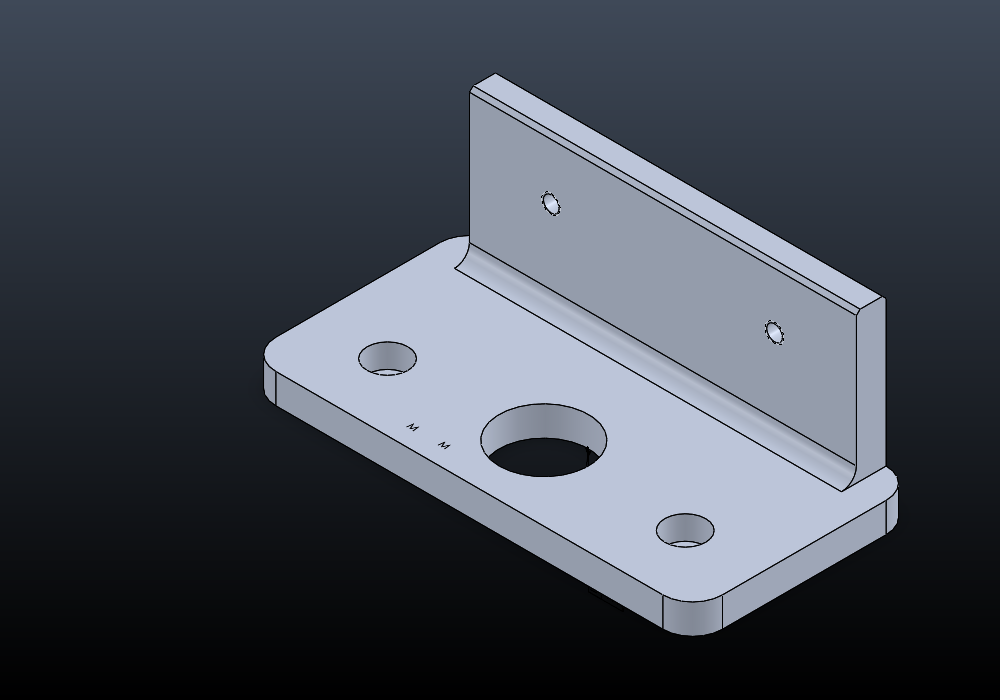
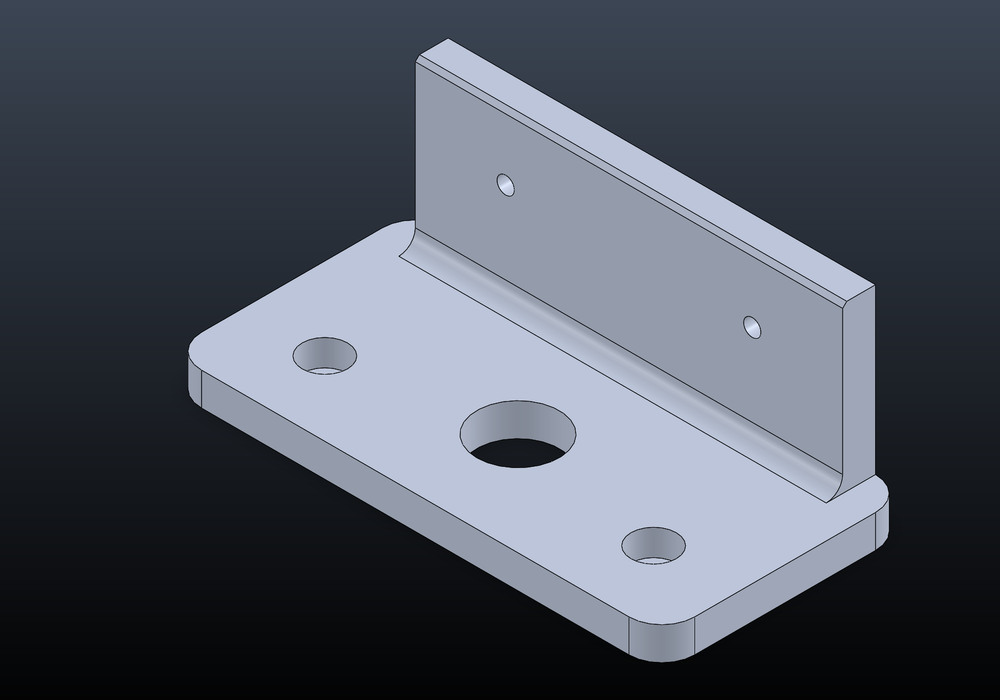
Arrange drawing dimensions; show each model dimension once
view_dimensions(arrange=true) packs a view's linear dimensions in rows by
size, chained dimensions sharing a row, spaced for their text and kept
within the free space to neighbouring views and the sheet edge.

create_drawing passed the eliminate-duplicates flag of
InsertModelAnnotations3 as false, so a dimension appeared in every view
that could show it. README images regenerated.

diff --git a/src/solidworks_mcp/tools_drawing.py b/src/solidworks_mcp/tools_drawing.py
@@ -10,6 +10,7 @@ from typing import Annotated, Any, Literal
 from pydantic import Field
 
 from . import geometry as g
+from . import shapes
 from .com import SW, const_name, doc_kind, mm, to_deg, to_mm
 from .errors import SwError
 from .registry import READ_ONLY, WRITES, app, tool
@@ -571,7 +572,7 @@ def create_drawing(
         for n in ("swInsertDimensionsMarkedForDrawing", "swInsertDatums", "swInsertDatumTargets", "swInsertGTols", "swInsertSFSymbols", "swInsertNotes",
                   "swInsertCThreads", "swInsertHoleWizardProfileDimensions", "swInsertHoleWizardLocationDimensions", "swInsertholeCallout"):
             types |= getattr(C, n)
-        drw.InsertModelAnnotations3(C.swImportModelItemsFromEntireModel, types, True, False, False, False)
+        drw.InsertModelAnnotations3(C.swImportModelItemsFromEntireModel, types, True, True, False, False)
     doc.ForceRebuild3(True)
     doc.ViewZoomtofit2()
     out: dict[str, Any] = {"drawing": doc.GetTitle(), "model": str(mpath), "projection": projection,
@@ -1138,6 +1139,54 @@ def breakout_section(
     return out
 
 
+def _room(drw: Any, view: Any, sheet_w: float, sheet_h: float) -> dict[str, float]:
+    """Free distance on each side of a view up to the nearest view beside it, or the sheet edge (metres)."""
+    x0, y0, x1, y1 = _outline(view)
+    room = {"top": sheet_h - y1, "bottom": y0, "right": sheet_w - x1, "left": x0}
+    sheet_view = SW.cast(drw.GetFirstView(), "IView")
+    other = SW.cast(sheet_view.GetNextView(), "IView") if sheet_view is not None else None
+    while other is not None:
+        if other.GetName2() != view.GetName2():
+            a0, b0, a1, b1 = _outline(other)
+            if a0 < x1 and a1 > x0:  # overlaps across: above or below
+                if b0 >= y1:
+                    room["top"] = min(room["top"], b0 - y1)
+                elif b1 <= y0:
+                    room["bottom"] = min(room["bottom"], y0 - b1)
+            if b0 < y1 and b1 > y0:  # beside
+                if a0 >= x1:
+                    room["right"] = min(room["right"], a0 - x1)
+                elif a1 <= x0:
+                    room["left"] = min(room["left"], x0 - a1)
+        other = SW.cast(other.GetNextView(), "IView")
+    return {k: max(0.0, v - 0.002) for k, v in room.items()}
+
+
+def _text_depth(ann: Any, vertical: bool) -> float:
+    """How far a dimension's text reaches across its row (sheet metres): its height, or its width when the
+    text reads horizontally on a vertical dimension (ASME unidirectional)."""
+    data = SW.cast(ann.GetDisplayData(), "IDisplayData")
+    best = 0.0
+    for i in range(data.GetTextCount() if data is not None else 0):
+        h = data.GetTextHeightAtIndex(i)
+        across_is_width = vertical == (abs(math.sin(data.GetTextAngleAtIndex(i))) < 0.5)
+        best = max(best, len(data.GetTextAtIndex(i) or "") * h * 0.8 if across_is_width else h)
+    return best
+
+
+def _is_vertical(ann: Any) -> bool | None:
+    """Whether a linear dimension measures vertically on the sheet, from its first extension line (which runs
+    across the measured direction); None for aligned dimensions."""
+    data = SW.cast(ann.GetDisplayData(), "IDisplayData")
+    if data is None or data.GetLineCount() < 1:
+        return None
+    line = list(data.GetLineAtIndex3(0))
+    dx, dy = abs(line[7] - line[4]), abs(line[8] - line[5])
+    if min(dx, dy) > 0.02 * max(dx, dy, 1e-12):
+        return None
+    return dx > dy
+
+
 def _view_dims(v: Any) -> list[tuple[str, Any, Any]]:
     """(short name, IDisplayDimension, IDimension) for every dimension shown in a view."""
     out = []
@@ -1160,6 +1209,8 @@ def view_dimensions(
         "symmetric (± plus), bilateral (+plus / -minus), limit (shown as upper and lower size), min, max; ISO fits with "
         "{type: fit | fit_with_tolerance | fit_tolerance_only, hole: 'H7', shaft: 'g6'}."))] = None,
     decimals: Annotated[dict[str, int] | None, Field(description="Decimal places per dimension, {name: places}; the tolerance uses the same.")] = None,
+    arrange: Annotated[bool, Field(description="Stack the linear dimensions around the view in rows by size, shortest nearest the part, spacing apart (run before move).")] = False,
+    spacing: Annotated[float, Field(gt=0, description="arrange: distance between rows in sheet mm.")] = 8.0,
 ) -> dict:
     """List the dimensions shown in a drawing view with their values, tolerances and text positions (sheet
     mm); move them to tidy crowded annotations, and set tolerances (±, bilateral, limits, basic) and precision."""
@@ -1168,6 +1219,27 @@ def view_dimensions(
     v = _view(drw, view)
     dims = _view_dims(v)
     by_name = {n: (dd, dim) for n, dd, dim in dims}
+    arranged: dict[str, Any] = {}
+    if arrange:
+        k = v.ScaleDecimal or 1.0
+        linear = []
+        for n, dd, dim in dims:
+            if dd.GetType() != SW.C.swLinearDimension:
+                continue
+            ann = SW.cast(dd.GetAnnotation(), "IAnnotation")
+            vertical = _is_vertical(ann)
+            if vertical is not None:
+                linear.append((n, abs(dim.SystemValue) * k, tuple(list(ann.GetPosition())[:2]), vertical, _text_depth(ann, vertical)))
+        sw_, sh_ = _sheet_size(drw)
+        room = _room(drw, v, sw_, sh_)
+        # chained dimensions touch and share a row
+        arranged = shapes.arrange_dimensions(linear, _outline(v), mm(spacing), clearance=mm(2), room=room)
+        for name, (x, y) in arranged.items():
+            SW.cast(by_name[name][0].GetAnnotation(), "IAnnotation").SetPosition2(x, y, 0.0)
+        x0, y0, x1, y1 = _outline(v)
+        off = sorted(n for n, (x, y) in arranged.items()
+                     if not (0 < x < sw_ and 0 < y < sh_) or y - y1 > room["top"] + 1e-6 or y0 - y > room["bottom"] + 1e-6
+                     or x - x1 > room["right"] + 1e-6 or x0 - x > room["left"] + 1e-6)
     for name, pos in (move or {}).items():
         if name not in by_name:
             raise SwError(f"No dimension '{name}' in {view}. Dimensions: {sorted(by_name)}")
@@ -1208,7 +1280,7 @@ def view_dimensions(
         if name not in by_name:
             raise SwError(f"No dimension '{name}' in {view}. Dimensions: {sorted(by_name)}")
         by_name[name][0].SetPrecision3(int(places), -1, int(places), -1)
-    if move or tolerance or decimals:
+    if move or tolerance or decimals or arranged:
         doc.EditRebuild3()
         doc.GraphicsRedraw2()
     names_tol = {v: k for k, v in tol_types.items()}
@@ -1230,4 +1302,9 @@ def view_dimensions(
     out: dict[str, Any] = {"view": view, "outline_mm": [round(to_mm(c), 2) for c in _outline(v)], "dimensions": rows}
     if move:
         out["moved"] = sorted(move)
+    if arrange:
+        out["arranged"] = sorted(arranged)
+        if off:
+            out["warning"] = (f"{', '.join(off)} did not fit between the view and its neighbours or the sheet edge; "
+                              "move the views apart or use a larger sheet.")
     return out

diff --git a/src/solidworks_mcp/shapes.py b/src/solidworks_mcp/shapes.py
@@ -275,3 +275,56 @@ def rounded_path_3d(pts: list[tuple[float, float, float]], radii: list[float], c
             if math.dist(a, b) > 1e-12:
                 items.append(("line", a, b))
     return items
+
+
+def arrange_dimensions(dims: list[tuple], outline: tuple[float, float, float, float],
+                       spacing: float, gap: float = 0.0, clearance: float = 0.0,
+                       room: dict[str, float] | None = None) -> dict[str, tuple[float, float]]:
+    """New text positions for linear dimensions around a drawing view, packed in rows by side.
+
+    `dims` are (name, length on the sheet, (x, y) text position, vertical[, depth]) and `outline` is
+    (x0, y0, x1, y1); depth is how far the text reaches across the row (its width when horizontal text labels a
+    vertical dimension), and a side's rows are at least the largest depth plus `clearance` apart. `room` caps
+    how far each side may reach (the gap to a neighbouring view or the sheet edge): rows are squeezed to fit,
+    but never closer than `spacing`.
+    Horizontal dimensions go above or below the view (the side their text is on), vertical ones left or right.
+    Each side is filled in rows `spacing` apart, shortest first, each dimension in the nearest row where it
+    does not overlap another along the row (its span is its length, centred on the text). Dimensions whose text
+    sits inside the outline across the row direction are left where they are. The text keeps its position
+    along the dimension line.
+    """
+    x0, y0, x1, y1 = outline
+    cx, cy = (x0 + x1) / 2, (y0 + y1) / 2
+    sides: dict[str, list[tuple[float, str, tuple[float, float]]]] = {"top": [], "bottom": [], "left": [], "right": []}
+    depth: dict[str, float] = {}
+    for item in dims:
+        name, length, (x, y), vertical = item[:4]
+        depth[name] = item[4] if len(item) > 4 else 0.0
+        if vertical:
+            if x0 <= x <= x1:
+                continue
+            sides["right" if x > cx else "left"].append((length, name, (x, y)))
+        else:
+            if y0 <= y <= y1:
+                continue
+            sides["top" if y > cy else "bottom"].append((length, name, (x, y)))
+    out: dict[str, tuple[float, float]] = {}
+    for side, items in sides.items():
+        rows: list[list[tuple[float, float]]] = []
+        placed: list[tuple[str, int, float, float]] = []
+        for length, name, (x, y) in sorted(items):
+            c = x if side in ("top", "bottom") else y
+            span = (c - length / 2 - gap, c + length / 2 + gap)
+            k = next((i for i, row in enumerate(rows) if all(span[1] <= a or span[0] >= b for a, b in row)), len(rows))
+            if k == len(rows):
+                rows.append([])
+            rows[k].append(span)
+            placed.append((name, k, x, y))
+        pitch = max([spacing] + [depth[n] + clearance for _, n, _ in items])
+        if room and side in room and rows:
+            # the outermost row's text must stay inside the room
+            pitch = max(spacing, min(pitch, (room[side] - max(depth.get(n, 0.0) for _, n, _ in items)) / len(rows)))
+        for name, k, x, y in placed:
+            d = pitch * (k + 1)
+            out[name] = {"top": (x, y1 + d), "bottom": (x, y0 - d), "right": (x1 + d, y), "left": (x0 - d, y)}[side]
+    return out

diff --git a/tests/test_shapes.py b/tests/test_shapes.py
@@ -152,3 +152,30 @@ def test_rounded_path_3d_bends():
     assert all(math.dist(ends[i][1], ends[i + 1][0]) < 1e-9 for i in range(len(ends) - 1))
     with pytest.raises(SwError):
         shapes.rounded_path_3d([(0, 0, 0), (5, 0, 0), (5, 5, 0)], [0, 10, 0])
+
+
+def test_arrange_dimensions_stacks_by_size():
+    outline = (0, 0, 100, 50)
+    # spans: short 10..30, mid 10..50 (overlaps short), side 70..90 (clear of both), long 0..100
+    dims = [("long", 100, (50, 70), False), ("short", 20, (20, 52), False), ("mid", 40, (30, 90), False), ("side", 20, (80, 60), False),
+            ("right", 50, (130, 25), True), ("thick", 10, (104, -8), True), ("inside", 8, (40, 20), False)]
+    pos = shapes.arrange_dimensions(dims, outline, 8)
+    assert pos["short"] == (20, 58) and pos["side"] == (80, 58)  # share the first row
+    assert pos["mid"] == (30, 66) and pos["long"] == (50, 74)
+    assert pos["thick"] == (108, -8) and pos["right"] == (108, 25)  # vertical: right of the view; no overlap in y, one row
+    assert "inside" not in pos
+
+
+def test_arrange_dimensions_wide_text_widens_columns():
+    # horizontal text 12 mm wide on vertical dimensions: columns 14 mm apart instead of 8
+    dims = [("a", 30, (110, 25), True, 12.0), ("b", 40, (115, 25), True, 12.0)]
+    pos = shapes.arrange_dimensions(dims, (0, 0, 100, 50), 8, clearance=2)
+    assert pos["a"] == (114, 25) and pos["b"] == (128, 25)
+
+
+def test_arrange_dimensions_squeezes_into_room():
+    dims = [("a", 30, (110, 25), True, 12.0), ("b", 40, (115, 25), True, 12.0)]
+    pos = shapes.arrange_dimensions(dims, (0, 0, 100, 50), 8, clearance=2, room={"right": 30})
+    assert pos["a"] == (109, 25) and pos["b"] == (118, 25)  # (30 - 12) / 2 = 9 mm columns
+    tight = shapes.arrange_dimensions(dims, (0, 0, 100, 50), 8, clearance=2, room={"right": 10})
+    assert tight["b"] == (116, 25)  # never closer than the spacing

diff --git a/tests/test_integration.py b/tests/test_integration.py
@@ -436,6 +436,17 @@ def test_drawing_details(tmp_path: Path):
             # a drawing of a model that is not open
             drw = await c.call("create_drawing", model="block.sldprt", isometric=False, save_as="block.slddrw")
             front, top = drw["views"][0]["name"], drw["views"][1]["name"]
+            shown = [d["name"] for v in drw["views"] for d in (await c.call("view_dimensions", view=v["name"]))["dimensions"]]
+            assert shown and len(shown) == len(set(shown))  # each model dimension in one view only
+            rows = []
+            for v in drw["views"]:
+                tidy = await c.call("view_dimensions", view=v["name"], arrange=True, spacing=8)
+                x0, y0, x1, y1 = tidy["outline_mm"]
+                for d in tidy["dimensions"]:
+                    if d["name"] in tidy["arranged"]:
+                        x, y = d["position_mm"]
+                        rows.append([h for h in (y - y1, y0 - y, x - x1, x0 - x) if h > 0])  # off the view on its side
+            assert rows and all(any(abs(h / 8 - round(h / 8)) < 0.01 for h in r) for r in rows)  # rows 8 mm apart
             section = await c.call("section_view", view=top, direction="horizontal", offset=-15)
             assert section["cut_faces"] > 0 and "warning" not in section  # the cut goes through the counterbores
             stepped = await c.call("section_view", view=top, label="C", points=[[-50, 10, 15], [-10, 10, 15], [-10, 10, -15], [50, 10, -15]])

diff --git a/README.md b/README.md
@@ -116,7 +116,7 @@ All lengths are millimetres and all angles degrees, in both directions, whatever
 | Geometry and checks | `list_faces`, `list_edges`, `measure`, `mass_properties`, `bounding_box`, `check_geometry`, `screenshot` |
 | Engineering data | `list_materials`, `set_material`, `custom_properties` |
 | GD&T | `add_datum`, `add_datum_target`, `add_geometric_tolerance` (incl. composite frames and projected zones), `dimxpert` (automatic MBD scheme), `add_surface_finish`, `add_note` |
-| Drawings | `create_drawing`, `drawing_views`, `section_view`, `detail_view`, `projected_view`, `auxiliary_view`, `broken_view`, `breakout_section`, `add_view` (model or flat pattern), `sheets`, `drawing_dimension`, `view_dimensions` (list, move, tolerance, precision), `drawing_table` (BOM with balloons, revision block, hole table) |
+| Drawings | `create_drawing`, `drawing_views`, `section_view`, `detail_view`, `projected_view`, `auxiliary_view`, `broken_view`, `breakout_section`, `add_view` (model or flat pattern), `sheets`, `drawing_dimension`, `view_dimensions` (list, arrange, move, tolerance, precision), `drawing_table` (BOM with balloons, revision block, hole table) |
 | Assemblies | `insert_component`, `list_components`, `add_mate` (including limit, width, symmetric, gear, slot, hinge, rack and pinion, screw, universal joint and cam mates), `exploded_view`, `interference_check`, `bom` (parts list with mass budget) |
 
 95 tools and one prompt (`design`) in total. Tools carry MCP annotations (`readOnlyHint`, `destructiveHint`) so clients can approve reads automatically and ask before deleting or closing.
@@ -185,7 +185,7 @@ The tools cover the common path from a blank part to a released drawing. Plenty 
 - **Design tables.** Equations, global variables and configurations work (each with its own dimensions, suppressed features, material and custom properties, for dash-numbered variants), but there are no Excel design tables or tabulated drawings.
 - **Imported geometry.** `import_file` brings STEP, IGES and Parasolid models in as dumb solids: there is no feature recognition, so imported parts can be referenced, measured, mated, cut, split, patterned and converted to sheet metal, but not edited by dimension or by moving their faces.
 - **Design judgement.** The guide gives rules of thumb and a worked recipe, not analysis. Strength, vibration, thermal and airworthiness decisions stay with engineers.
-- **Drawings beyond the basics.** There is no automatic dimension arrangement, and the title block is filled only through custom properties. Imported annotations and tables placed without a position often overlap views and need tidying by hand. Reference dimensions and auxiliary views in assembly drawings need component references (`edge@Part-1/x,y,z`) and have only been tested on parts.
+- **Drawings beyond the basics.** `view_dimensions(arrange=true)` stacks linear dimensions in rows around their view within the free space, but leaves diameter and radius leaders, datum symbols and feature control frames where SolidWorks put them, and the title block is filled only through custom properties. Tables placed without a position can overlap views and need moving. Reference dimensions and auxiliary views in assembly drawings need component references (`edge@Part-1/x,y,z`) and have only been tested on parts.
 - **Advanced GD&T and MBD.** DimXpert schemes take their tolerance values from the document's DimXpert options and cannot be edited annotation by annotation. There is no tolerance stack-up analysis, 3D PMI views or annotation views, The unequally disposed profile modifier is drawn as text in the frame, so STEP carries it graphically rather than as semantic PMI.
 - **Advanced assembly work.** Path mates, motion studies and sub-assembly restructuring are not available. Explode steps move and rotate about the assembly X, Y and Z axes, and radial steps move a ring of parts out from its own centre axis.
 - **Analysis.** It cannot run SolidWorks Simulation, Flow Simulation, Costing or DFM checks. Mass properties, measurement, interference and the body check are the analysis tools available.

diff --git a/CHANGELOG.md b/CHANGELOG.md
@@ -6,6 +6,8 @@ All notable changes to this project are documented here. The format follows
 ## [Unreleased]
 
 ### Added
+- `view_dimensions(arrange=true)` packs a view's linear dimensions in rows by size (chained dimensions share a
+  row), spaced for their text and kept clear of neighbouring views and the sheet edge.
 - Radial explode steps: `exploded_view(steps=[{components, radial: true, distance}])` moves a ring of parts
   straight out from its centre axis (fastener patterns on flanges and bulkheads).
 - `hole` drills curved faces too: radial holes in tubes and shafts are placed exactly and square to the
@@ -86,6 +88,8 @@ All notable changes to this project are documented here. The format follows
   titanium, K-factors, flange and hole-to-bend rules and an avionics tray recipe.
 
 ### Fixed
+- `create_drawing` imported model dimensions into every view that could show them, so the same dimension
+  appeared two or three times; each is now shown once.
 - A failed `edge_flange` left its profile planes and sketches in the tree (deleting them in one selection
   missed some); they are now removed one by one.
 - A `center_rectangle` drawn inside another on the same centre was pulled to the outer rectangle's proportions
